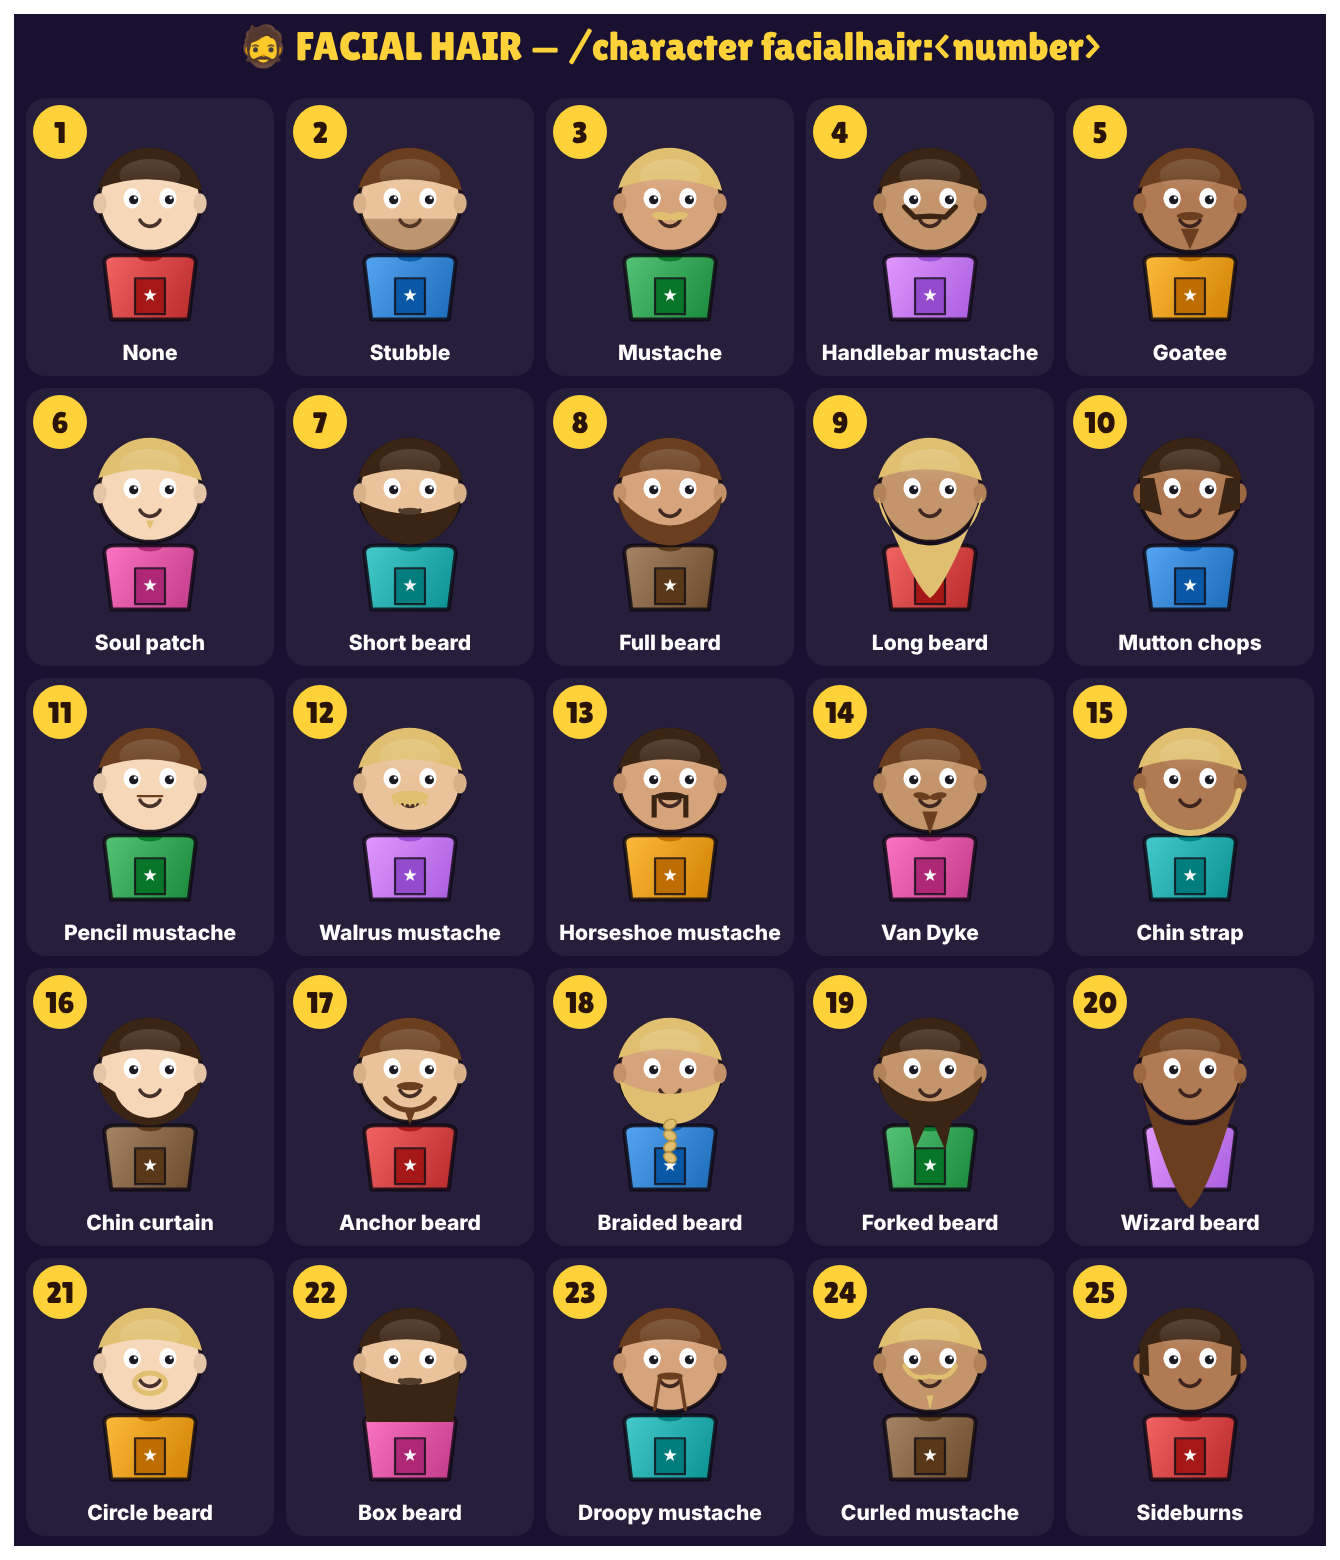
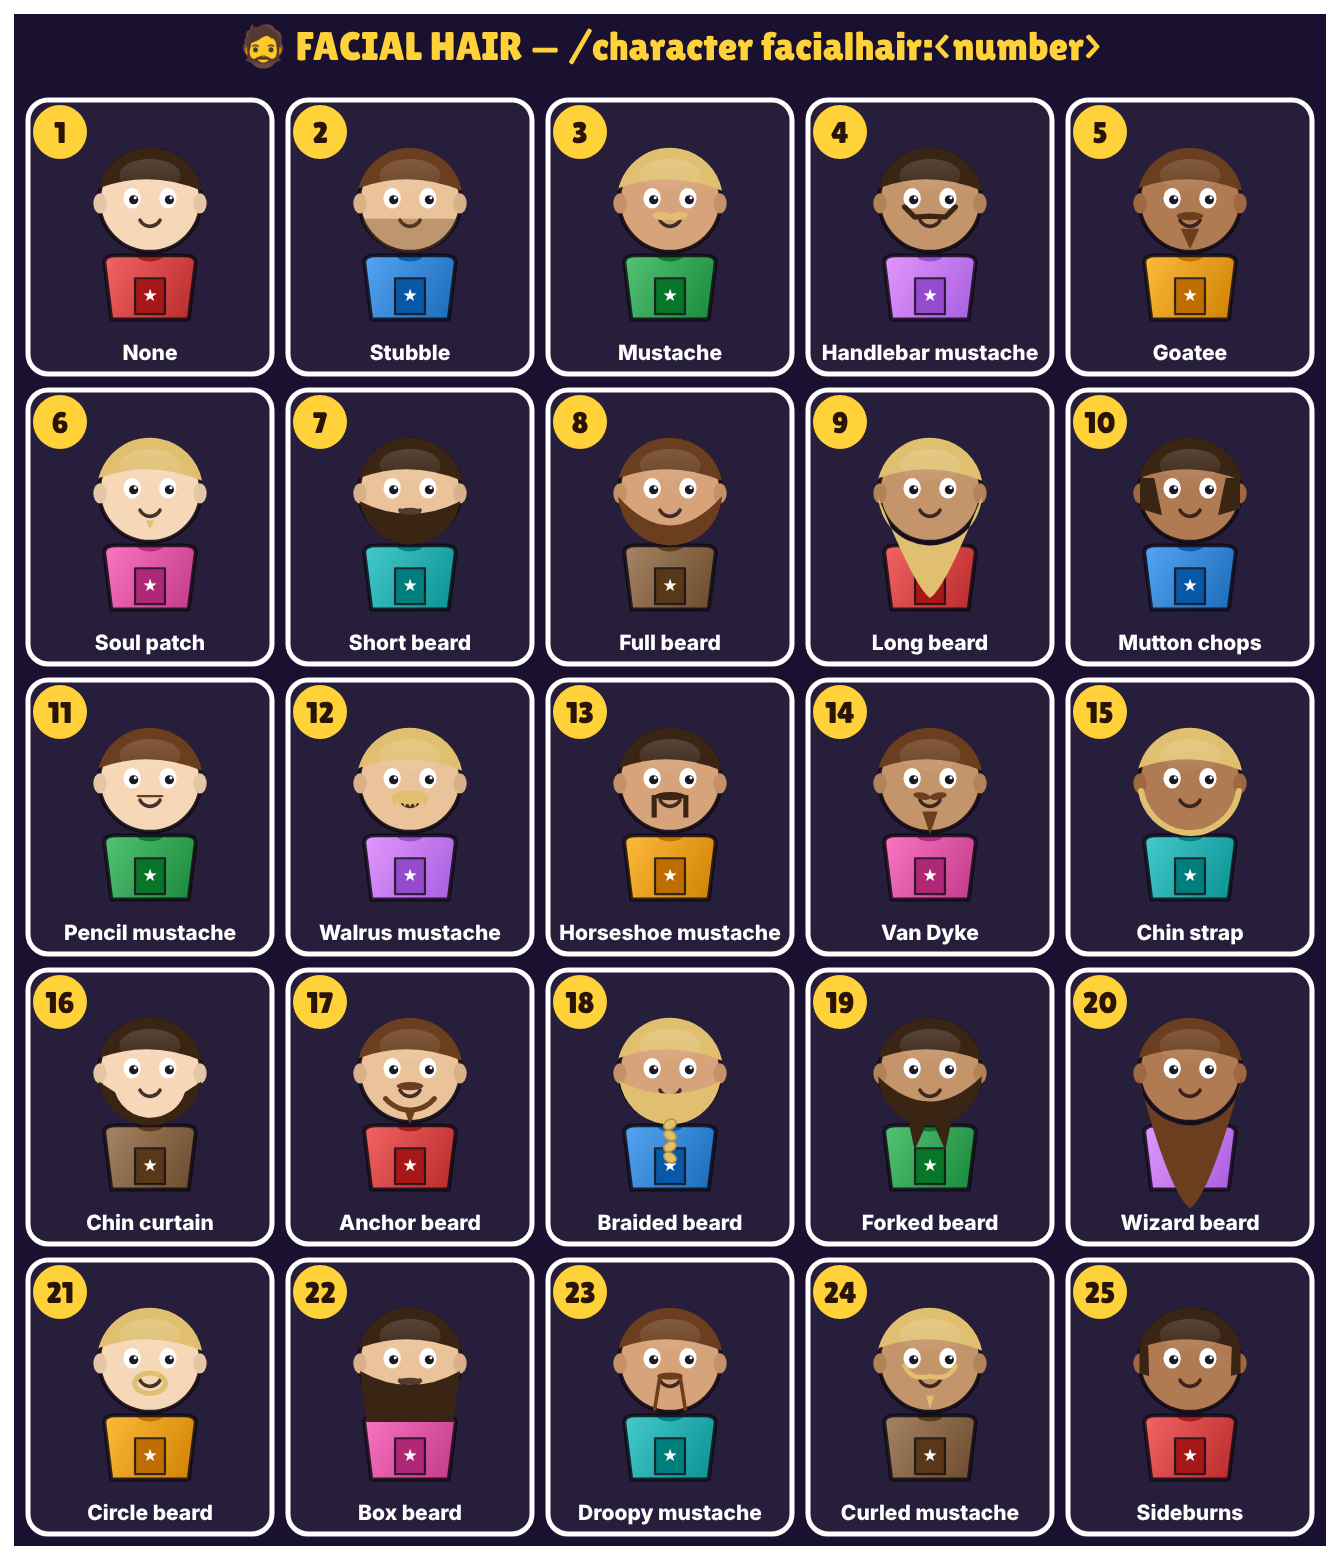
1.57.2: white border on every part on the Discord character sheets
Claude-Session: https://claude.ai/code/session_01CRqiBDMvqLEj8M2E4bKXyK

diff --git a/public/charsheet.html b/public/charsheet.html
@@ -33,7 +33,7 @@ function drawSheet0() {
   cv.width = W0; cv.height = rows * ch + 110; g.fillStyle = '#1a1030'; g.fillRect(0, 0, cv.width, cv.height); head(S.title);
   for (let i = 0; i < n; i++) {
     const num = S.from + i, x = ox + (i % cols) * cw, y = 92 + Math.floor(i / cols) * ch, fem = (S.part === 'hair' && num > 25) || (S.part === 'outfit' && num > 25 && num <= 50) || S.part === 'makeup' || (S.part === 'outfit' && num > 50 && i % 2);
-    g.fillStyle = 'rgba(255,255,255,.06)'; g.beginPath(); g.roundRect(x + 6, y + 6, cw - 12, ch - 12, 20); g.fill();
+    g.fillStyle = 'rgba(255,255,255,.06)'; g.beginPath(); g.roundRect(x + 8, y + 8, cw - 16, ch - 16, 20); g.fill(); g.strokeStyle = '#fff'; g.lineWidth = 5; g.stroke(); // ⬜ white border on every part (Derek: so each picture stands apart)
     const look = { hair: fem ? 26 : 1, outfit: fem ? 26 : 1, makeup: 1, facialhair: 1, body: fem ? 2 : 1, skin: 2 + (i % 5), haircolor: 2 + (i % 3) };
     look[S.part] = num; if (S.part === 'body') { look.hair = 26; look.outfit = 1; }
     const t = document.createElement('canvas'); t.width = t.height = 260; const tg = t.getContext('2d'); C.draw(tg, 130, 88, look, null, COLS[i % COLS.length], '★');

diff --git a/CLAUDE.md b/CLAUDE.md
@@ -172,4 +172,4 @@ No look-alikes of real characters/brands (declined a Homer Simpson donut monster
 - **📁 Discord folder + #character-creation (1.57.0, Derek):** discord.js `folder(g)` (category `settings.discordCategory` 'Movie Royal', `db.discordFolders`), `intoFolder(g, ch, warn)` = `setParent(cat, {lockPermissions:false})` (debug/sync keep their hidden overwrites) for picks, chars, debug, sync (prep order = folder order); `setupChars(g)` (`settings.charChannel` / `charChannelName`, `db.discordChars[g]` {channelId, pinId, pinKey = picsVersion + text}): ONE pinned message = how-to + all 9 sheet PNGs. `/character` only there (`charChannelFor`), picture posts go there; worker copy via `cfg.charChannels` (WORKER_V 10). Settings changes → `RESTART_DISCORD`. Self-test checks the folder + channels. Tested only against a pretend Discord.
 - **Map menus (1.54.1):** `MAP_SECS` / `mapSec(m)` in control.html: ⚪ Ball / car only → 🃏 Character only (card maps) → ⚪🃏 Both → 🎉 Holiday, each A–Z (also the tag list in Settings → Game).
 - **🖼 Character pictures (1.55.1):** `public/charone.html?look=&name=&size=` draws one character → `window.__png`; `looks.picture(look, name)` renders it via main.cjs `__desktop.renderPicture(url)` (hidden window) or Playwright when not in Electron (tests). App bot `/character`: reply, then `editReply` with the PNG + channel post (`looks.postOk` = setting `lookPost`, 5 min per person). 24/7 worker `look` op carries `token/app/ch/first` (WORKER_V 9) → `cloud.lookPicture()` PATCHes the original answer (only < 14 min old) + posts in the channel with the bot token (multipart). Test: `GET /api/test/look-picture?look=&name=`.
-- **⬜ Picture borders (1.57.1, Derek):** charsheet.html `frame()` (14 px white border after `drawSheet0()`) + charone.html white rounded outline, so Discord pictures side by side don't blend. Regenerate public/chars/*.png after sheet changes.
+- **⬜ Picture borders (1.57.1, Derek):** charsheet.html `frame()` (14 px white border after `drawSheet0()`) + 5 px white border on every part tile (1.57.2) + charone.html white rounded outline, so Discord pictures side by side don't blend. Regenerate public/chars/*.png after sheet changes.

diff --git a/CHANGELOG.md b/CHANGELOG.md
@@ -2,6 +2,9 @@
 
 What changed in each version of Movie Royal. Newest first.
 
+## 1.57.2
+- ⬜ **Every hairstyle, outfit, makeup, facial hair and body on the Discord part pictures now has its own white border**, so it's easy to see where one choice ends and the next begins. The pinned message in #character-creation updates itself with the new pictures, and the 24/7 bot gets them automatically.
+
 ## 1.57.1
 - ⬜ **White borders on the character pictures in Discord.** Every part picture in #character-creation (and the little picture posted when someone makes their character) now has a white frame, so you can easily see where one picture ends and the next begins. The pinned message updates itself with the new pictures, and the 24/7 bot gets them automatically.
 
